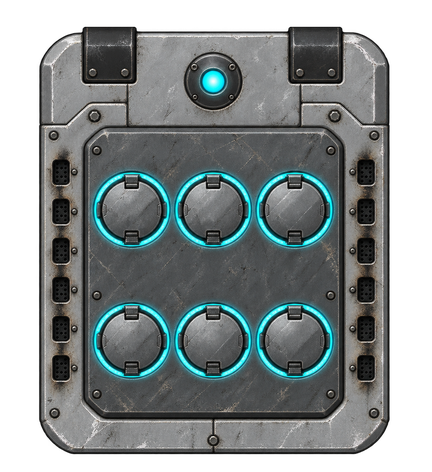
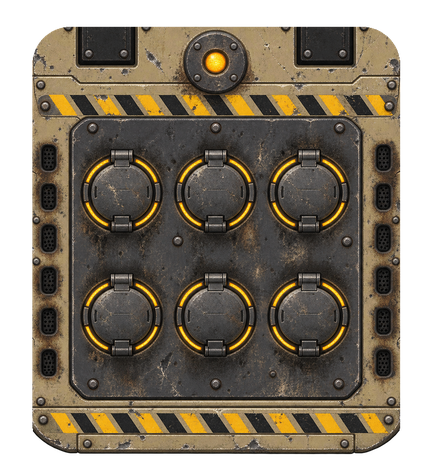
Interceptor pack becomes Hegemony issue: the Arrestor
The missile pack was dressed as Tri-Tachyon kit -- cyan glow, cyan-ringed
hatches, sold by Tri-Tachyon -- while energy point defence is meant to be
their direction. It is now the Hegemony's Arrestor: khaki plate, gunmetal
launch block, hazard banding and amber ring lights (art regenerated from
updated guides), a Hegemony logo, Hegemony license and patron sources in
place of Tri-Tachyon's, and a chemical motor's look in flight: an orange
launch flash and a short wisp burning orange and cooling to grey smoke.
The point-defence suite adds close stills of the pack worn and of its
first launch.

diff --git a/art-source/templates/pd-pack-guide.py b/art-source/templates/pd-pack-guide.py
@@ -1,4 +1,4 @@
-"""Geometry only for the Palisade interceptor pack (special.point-defence-pack).
+"""Geometry only for the Hegemony Arrestor interceptor pack (special.point-defence-pack).
 
 Writes two guides under art-source/templates/. Code owns every silhouette; ImageGen reskins material
 and detail. Sprites point UP (the actor's forward), empty space is transparent.
@@ -6,11 +6,13 @@ and detail. Sprites point UP (the actor's forward), empty space is transparent.
 The pack is a miniature vertical launcher: its interceptors leave their tubes straight up, then light a
 second motor and turn onto the incoming round. Seen from above that is a block of round tube hatches,
 one per interceptor in the magazine (six), so the count on the marine's back is the count in the sim.
+It is Hegemony issue: khaki plate, gunmetal launch block, amber ring lights; the cyan glow of the
+Palisade gun pod belongs to the other kit.
 
   pd-pack-pack-guide.png  800x880: the pack as worn, seen from straight above on the back, drawn at the
                           carrier layer's 0.54 x 0.59 shoulder aspect. The top edge lies against the
                           shoulders, so the strap roots are there. A rigid frame carries the launch
-                          block -- three by two round hatches, each ringed in cyan -- with a small
+                          block -- three by two round hatches, each ringed in amber -- with a small
                           sensor dome between the straps and exhaust vents down both sides.
   pd-pack-icon-guide.png  1024x1024: the same pack standing upright as an inventory icon, seen from the
                           back and a little above: the frame with its strap tops, the launch block's
@@ -22,8 +24,8 @@ from PIL import Image, ImageDraw
 
 ROOT = Path(__file__).resolve().parents[2]
 OUT = ROOT / 'art-source/templates'
-CYAN = '#5fe3ff'     # the Palisade's interceptor accent, the same cyan as the pod and its tracer
-FRAME = '#8a9399'
+CYAN = '#ffb02e'     # Hegemony amber: hatch rings and status lights, the same amber as the interceptor's motor
+FRAME = '#a39a7c'    # Hegemony khaki
 DARK = '#1d2220'
 
 
@@ -42,10 +44,14 @@ def pack():
     d.rectangle((550, 60, 650, 150), fill=DARK)
     d.ellipse((345, 95, 455, 205), fill='#5a6268')                                  # sensor dome
     d.ellipse((380, 130, 420, 170), fill=CYAN)
-    d.rounded_rectangle((150, 250, 650, 790), 50, fill='#6c757b')                   # launch block
+    d.rounded_rectangle((150, 250, 650, 790), 50, fill='#5b6266')                   # launch block
     for cy in (390, 640):
         for cx in (250, 400, 550):
             hatch(d, cx, cy, 70)
+    for y0 in (212, 800):                                                           # hazard bands across the frame
+        for k, x in enumerate(range(110, 700, 40)):
+            d.polygon([(x, y0), (x + 20, y0), (x + 40, y0 + 30), (x + 20, y0 + 30)],
+                      fill='#e8b020' if k % 2 == 0 else '#1d1d1b')
     for x in (95, 675):                                                             # exhaust vents
         for y in range(300, 760, 70):
             d.rounded_rectangle((x, y, x + 30, y + 40), 8, fill='#3a4146')
@@ -56,10 +62,10 @@ def icon():
     S = 1024
     im = Image.new('RGBA', (S, S))
     d = ImageDraw.Draw(im)
-    d.rounded_rectangle((250, 330, 770, 960), 50, fill='#4b5a46')                   # frame face
+    d.rounded_rectangle((250, 330, 770, 960), 50, fill='#8f8668')                   # frame face, khaki
     d.rectangle((320, 300, 410, 400), fill='#2a2f2c')                               # strap tops
     d.rectangle((610, 300, 700, 400), fill='#2a2f2c')
-    d.polygon([(250, 330), (330, 200), (850, 200), (770, 330)], fill='#5c6b56')     # launch block top face
+    d.polygon([(250, 330), (330, 200), (850, 200), (770, 330)], fill='#5b6266')     # launch block top face, gunmetal
     for i, cx in enumerate((380, 520, 660)):                                        # back row of hatches
         d.ellipse((cx - 45, 215, cx + 75, 255), fill=CYAN)
         d.ellipse((cx - 35, 220, cx + 65, 250), fill='#3a4146')
@@ -67,14 +73,17 @@ def icon():
         d.ellipse((cx - 50, 270, cx + 80, 315), fill=CYAN)
         d.ellipse((cx - 40, 276, cx + 70, 309), fill='#3a4146')
     d.polygon([(495, 290), (525, 120), (555, 290)], fill='#c9d1d6')                 # one interceptor nose out of its tube
-    d.polygon([(510, 160), (525, 120), (540, 160)], fill=CYAN)
+    d.polygon([(510, 160), (525, 120), (540, 160)], fill='#c8402a')                 # red-banded nose
     d.rectangle((790, 120, 810, 210), fill='#3a4146')                               # sensor mast
     d.ellipse((760, 70, 840, 150), fill='#5a6268')                                  # sensor dome
     d.ellipse((785, 95, 815, 125), fill=CYAN)
     for y in range(440, 900, 80):                                                   # exhaust vents down the side
         d.rounded_rectangle((270, y, 300, y + 50), 8, fill='#2a2f2c')
         d.rounded_rectangle((720, y, 750, y + 50), 8, fill='#2a2f2c')
-    d.rounded_rectangle((400, 560, 620, 840), 30, fill='#3d4a3a')                   # magazine access panel
+    for k, x in enumerate(range(260, 760, 36)):                                     # hazard band under the block
+        d.polygon([(x, 345), (x + 18, 345), (x + 36, 375), (x + 18, 375)],
+                  fill='#e8b020' if k % 2 == 0 else '#1d1d1b')
+    d.rounded_rectangle((400, 560, 620, 840), 30, fill='#6f6852')                   # magazine access panel
     d.rounded_rectangle((430, 590, 460, 810), 10, fill=CYAN)                        # status strip
     im.save(OUT / 'pd-pack-icon-guide.png')
 

diff --git a/src/test/java/com/dillon/starsectormarines/battle/deployable/PointDefenceSceneSnapshotSuite.java b/src/test/java/com/dillon/starsectormarines/battle/deployable/PointDefenceSceneSnapshotSuite.java
@@ -106,6 +106,10 @@ public final class PointDefenceSceneSnapshotSuite implements SnapshotSuite {
      */
     private static final float PACK_FOCUS_X = SECTION_CELL_X - 7f;
     private static final float PACK_FOCUS_CELLS_ACROSS = 26f;
+    private static final int PACK_CARRIER_X = SECTION_CELL_X + 1;
+    private static final int PACK_CARRIER_Y = LANE_CELL_Y + 2;
+    /** Close enough that the pack on the carrier's back is drawn at a size its livery can be judged at. */
+    private static final float CLOSE_UP_CELLS_ACROSS = 6f;
 
     @Override public String id() { return "point-defence"; }
 
@@ -119,7 +123,13 @@ public final class PointDefenceSceneSnapshotSuite implements SnapshotSuite {
         BattleReviewFrameRenderer review = new BattleReviewFrameRenderer(context.modRoot(),
                 REVIEW_WIDTH, REVIEW_HEIGHT, PACK_FOCUS_X, LANE_CELL_Y + 0.5f, PACK_FOCUS_CELLS_ACROSS)
                 .withImpactEffects();
-        return List.of(record(renderer), recordPack(review, new ReviewImpactFx(context.modRoot())));
+        BattleReviewFrameRenderer closeUp = new BattleReviewFrameRenderer(context.modRoot(),
+                REVIEW_WIDTH, REVIEW_HEIGHT, PACK_CARRIER_X + 0.5f, PACK_CARRIER_Y + 0.5f,
+                CLOSE_UP_CELLS_ACROSS).withImpactEffects();
+        List<SnapshotArtifact> artifacts = new ArrayList<>();
+        artifacts.add(record(renderer));
+        artifacts.addAll(recordPack(review, closeUp, new ReviewImpactFx(context.modRoot())));
+        return artifacts;
     }
 
     /**
@@ -184,8 +194,9 @@ public final class PointDefenceSceneSnapshotSuite implements SnapshotSuite {
      * meets it; the magazine of six runs dry partway through, which is part of
      * what the loop shows.
      */
-    private SnapshotArtifact recordPack(BattleReviewFrameRenderer renderer,
-                                        ReviewImpactFx impacts) throws Exception {
+    private List<SnapshotArtifact> recordPack(BattleReviewFrameRenderer renderer,
+                                              BattleReviewFrameRenderer closeUp,
+                                              ReviewImpactFx impacts) throws Exception {
         BattleSimulation sim = openArena();
         WeaponDef lrm = WeaponRegistry.require("weapon.mech-lrm-artillery");
         SpecialEquipmentDef pack = SpecialEquipmentRegistry.require(
@@ -201,16 +212,29 @@ public final class PointDefenceSceneSnapshotSuite implements SnapshotSuite {
                     .health(SECTION_STAND_IN_HP)));
         }
         long carrier = sim.spawn(new EntitySpec("pd-carrier", Faction.MARINE,
-                UnitType.MARINE, SECTION_CELL_X + 1, LANE_CELL_Y + 2)
+                UnitType.MARINE, PACK_CARRIER_X, PACK_CARRIER_Y)
                 .role(UnitRole.STRUCTURE)
                 .health(SECTION_STAND_IN_HP)
                 .specialEquipment(pack, pack.startingAmmo()));
         sim.pointDefense().queuePlacement(carrier, Faction.MARINE,
-                SECTION_CELL_X + 1, LANE_CELL_Y + 2, pack.deployableEmplacementSpec());
+                PACK_CARRIER_X, PACK_CARRIER_Y, pack.deployableEmplacementSpec());
 
         List<BufferedImage> frames = new ArrayList<>(PACK_TICKS / PACK_FRAME_EVERY_TICKS + 1);
+        List<SnapshotArtifact> stills = new ArrayList<>();
+        int launchedBefore = 0;
         for (int tick = 0; tick <= PACK_TICKS; tick++) {
             fireScheduledSalvoRound(sim, tick, mech, section, lrm);
+            if (tick == 1) {
+                stills.add(new SnapshotArtifact("interceptor-pack-worn.png",
+                        closeUp.render(sim, "Interceptor pack on its carrier", ReviewAnnotations.NONE, impacts)));
+            }
+            int launched = sim.telemetry().ordnanceEngaged(carrier);
+            if (launchedBefore == 0 && launched > 0) {
+                stills.add(new SnapshotArtifact("interceptor-pack-launch.png",
+                        closeUp.render(sim, "First interceptor leaving the pack  •  t" + tick,
+                                ReviewAnnotations.NONE, impacts)));
+            }
+            launchedBefore = launched;
             if (tick % PACK_FRAME_EVERY_TICKS == 0) {
                 frames.add(renderer.render(sim, packCaption(sim, carrier, tick),
                         ReviewAnnotations.NONE, impacts));
@@ -218,8 +242,9 @@ public final class PointDefenceSceneSnapshotSuite implements SnapshotSuite {
             sim.advance(BattleSimulation.TICK_DT);
             impacts.feed(sim);
         }
-        return SnapshotArtifact.animation("salvo-under-interceptor-pack.gif",
-                frames, PACK_FRAME_DELAY_MILLIS);
+        stills.add(SnapshotArtifact.animation("salvo-under-interceptor-pack.gif",
+                frames, PACK_FRAME_DELAY_MILLIS));
+        return stills;
     }
 
     private static String packCaption(BattleSimulation sim, long carrier, int tick) {

diff --git a/src/main/java/com/dillon/starsectormarines/render2d/ContrailStyle.java b/src/main/java/com/dillon/starsectormarines/render2d/ContrailStyle.java
@@ -66,16 +66,17 @@ public final class ContrailStyle {
             /*additive*/ false);
 
     /**
-     * A hair-thin, short-lived cyan streak for a point-defence interceptor: a
-     * small hot motor rather than a smoke column, so a salvo reads as darts of
-     * light crossing to the rounds and not as a sky full of exhaust. Additive,
-     * tapering as it ages.
+     * A hair-thin, short wisp for a point-defence interceptor: a small chemical
+     * motor, burning orange at the missile and cooling to grey smoke a few cells
+     * back, so a salvo reads as darts crossing to the rounds rather than as a
+     * sky full of exhaust. Smoke rather than light, so alpha-blended; it widens
+     * only a little as it ages.
      */
     public static final ContrailStyle INTERCEPTOR_WISP = new ContrailStyle(
-            /*duration*/ 0.09f,
-            /*startW*/ 0.035f, /*endW*/ 0.015f,
-            /*start*/ 0.80f, 0.96f, 1.00f, 0.75f,
-            /*end*/   0.45f, 0.80f, 1.00f, 0.00f,
+            /*duration*/ 0.12f,
+            /*startW*/ 0.03f, /*endW*/ 0.06f,
+            /*start*/ 1.00f, 0.72f, 0.36f, 0.85f,
+            /*end*/   0.55f, 0.53f, 0.50f, 0.00f,
             /*minSegLen*/ 0.05f,
-            /*additive*/ true);
+            /*additive*/ false);
 }

diff --git a/src/test/java/com/dillon/starsectormarines/ops/battleview/HeadlessArmoryPreviewRenderer.java b/src/test/java/com/dillon/starsectormarines/ops/battleview/HeadlessArmoryPreviewRenderer.java
@@ -158,7 +158,7 @@ public final class HeadlessArmoryPreviewRenderer {
                         new FireTeamBillet("Observer", WeaponRegistry.require(WeaponRegistry.PULSE_RIFLE_ID),
                                 EquipmentGrade.SERVICE, SpecialEquipmentRegistry.require(SpecialEquipmentRegistry.COMMS_RADIO_ID),
                                 MarineArmorPattern.CHARCOAL)),
-                new PreviewCase("point-defence-pack", "Palisade interceptor pack · Legionary line suit",
+                new PreviewCase("point-defence-pack", "Arrestor interceptor pack · Legionary line suit",
                         new FireTeamBillet("Escort", WeaponRegistry.require(WeaponRegistry.PULSE_RIFLE_ID),
                                 EquipmentGrade.SERVICE, SpecialEquipmentRegistry.require(SpecialEquipmentRegistry.POINT_DEFENCE_PACK_ID),
                                 MarineArmorPattern.ARMY_GREEN)));

diff --git a/art-source/pd-pack/export.py b/art-source/pd-pack/export.py
@@ -1,4 +1,4 @@
-"""Mechanical export of the Palisade interceptor pack art (a miniature vertical launcher): raw ImageGen reskins -> mod/graphics/.
+"""Mechanical export of the Hegemony Arrestor interceptor pack art (a miniature vertical launcher): raw ImageGen reskins -> mod/graphics/.
 
 Reads the retained raws in art-source/pd-pack/raw/ and the code-owned guides written by
 art-source/templates/pd-pack-guide.py. Nothing here repaints: each raw is resampled to its guide

diff --git a/CLAUDE.md b/CLAUDE.md
@@ -1230,7 +1230,7 @@ The discovered suite ids and default output directories are:
 | `hq-intel` | Animated HQ receivers, dossier selection and a labelled fixture arrival at 1920x1080, 100% scale | `build/snapshots/hq-intel/` |
 | `firing-line` | Two animated loops of six marines in column in a corridor: the file shooting through its own men, and the same file stepping a cell out of each other's lanes. The acceptance for the friendly-lane step-aside | `build/snapshots/firing-line/` |
 | `frontage-scene` | Animated garrison stand-to on a generated compound, one loop per approach edge | `build/snapshots/frontage-scene/` |
-| `point-defence` | Animated LRM salvos against a placed interceptor pod: rounds stopped, rounds missed, rounds arriving; and the same salvos against a section wearing the interceptor pack, a close view at 1920x1080, 100% scale, every other tick so an interceptor's flight and trail are in frame | `build/snapshots/point-defence/` |
+| `point-defence` | Animated LRM salvos against a placed interceptor pod: rounds stopped, rounds missed, rounds arriving; and the same salvos against a section wearing the interceptor pack, a close view at 1920x1080, 100% scale, every other tick so an interceptor's flight and trail are in frame, with close stills of the pack worn and of its first launch | `build/snapshots/point-defence/` |
 | `deployable-cover` | Animated controlled comparison of a placed revetment: the same fire into a covered lane, an open lane, and a screened post shot from the flank | `build/snapshots/deployable-cover/` |
 | `integral-system-fx` | A running integral system's halo: a narrow authored screen beside a wide one draining their soak pools, one breaking under concentrated fire, and one pattern's screen at four facings | `build/snapshots/integral-system-fx/` |
 | `perception-sweep` | The player's own picture — fog overlay and hidden-unit gating included — before, during, and after a Janus sensor sweep | `build/snapshots/perception-sweep/` |

diff --git a/roadmap/progression/design/progression-nouns.md b/roadmap/progression/design/progression-nouns.md
@@ -678,7 +678,7 @@ keeping with how the rest of the equipment model treats recovery.
 The built-in identities are the rocket launcher, anti-materiel
 rifle, Wayfarer smoke grenades, Breachhand mag-clamp satchel, Shattercap
 fragmentation grenades, the Emberjaw thermal breacher, the Quillon
-vibro-blade, the Palisade interceptor pod and pack, and the Rampart field revetment.
+vibro-blade, the Palisade interceptor pod, the Arrestor interceptor pack, and the Rampart field revetment.
 The first two are direct-fire activations, Shattercap
 is an arcing weapon activation, smoke and satchels are utility activations,
 the pod and the revetment are deployable activations, and
@@ -965,8 +965,11 @@ carrier standing inside a friendly pod's existing bubble declines rather than
 stacking a second. Like every other executor, the placement authors no path,
 clears none, and never retargets its carrier.
 
-The **Palisade interceptor pack** is the same gun worn instead of set down, for
-a squad that has to keep moving. A pod placed by an advancing section is left
+The **Arrestor interceptor pack** does the pod's job worn instead of set down, for
+a squad that has to keep moving. It is Hegemony issue where the pod is not: a
+chemical-motor missile kit in khaki plate and amber lights, the line army's
+answer to shellfire, while energy point defence is the Tri-Tachyon direction.
+A pod placed by an advancing section is left
 behind by it, and the placement channel stops a marine in the middle of a bound,
 so in measured fights an attacking squad almost never put one down and one it
 did put down covered ground nobody stood on any more. The pack is switched on
